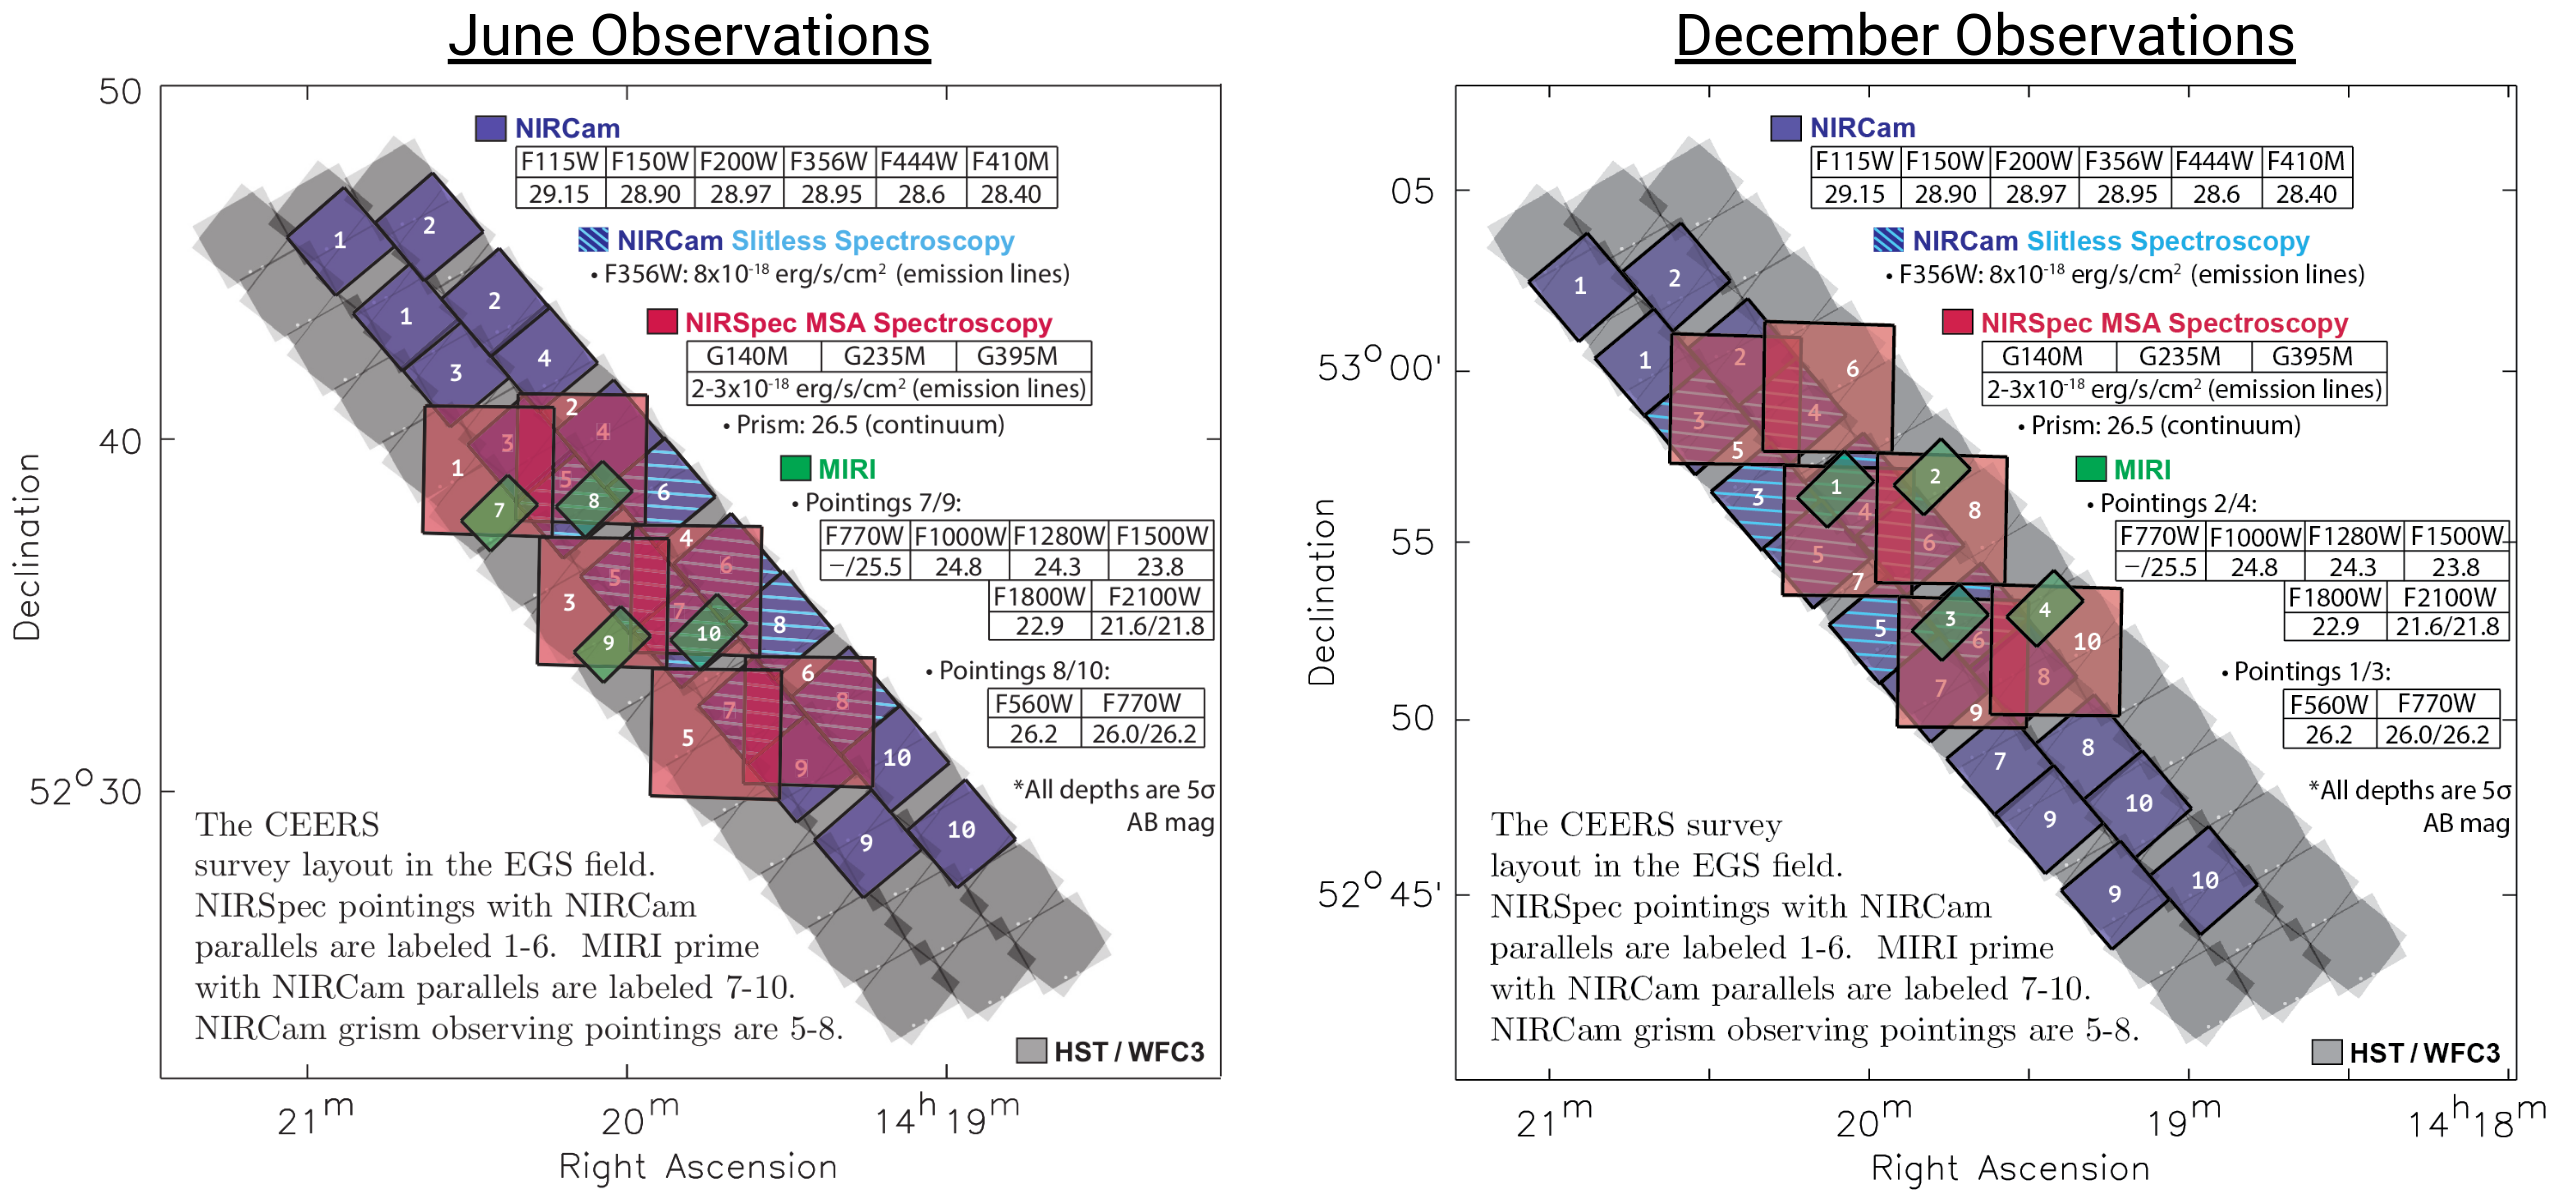
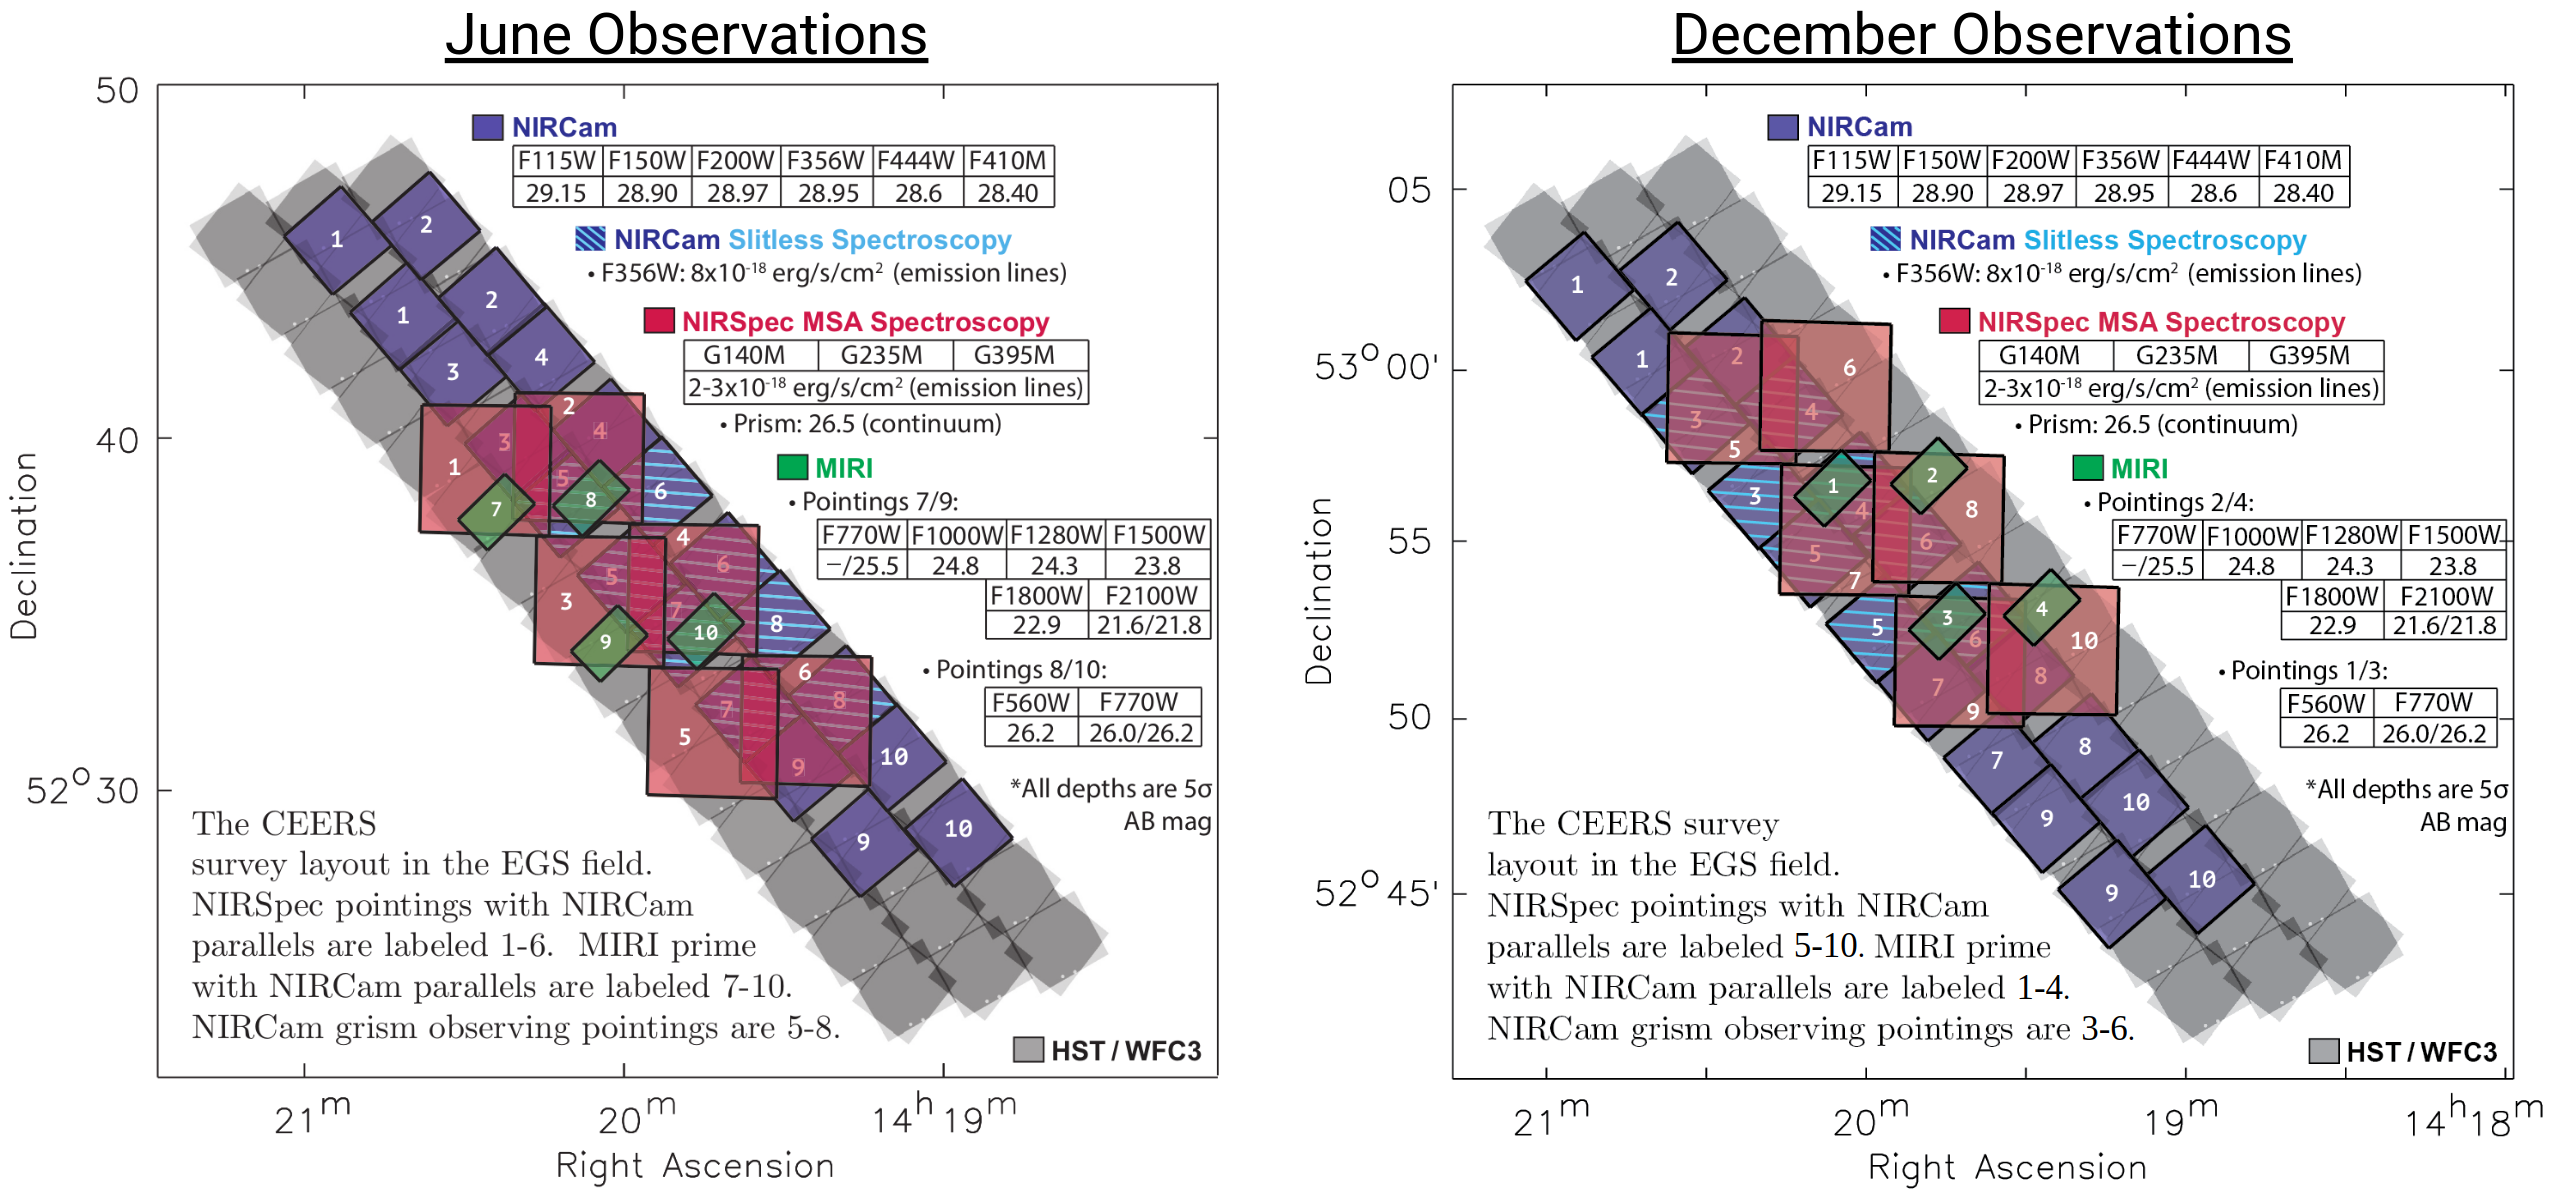
updating coordinates on June configuration

diff --git a/obs.html b/obs.html
@@ -106,12 +106,12 @@
                    <p>The CEERS observations are schedulable in June and December (with a 180&deg; flip). We show here the survey layout for both observability windows. Note that the APT file linked below corresponds to the December window, though with an Oct 31, 2021, launch date CEERS would likely be scheduled in June 2022. </p>
                     <!-- Modal observing plan -->
                     <figure>
-                      <img class="image modalimg" id="modalobs" src="images/EGS2.png" alt="" title="Survey layout and planned EGS observations" style="margin-left:auto; margin-right:auto; width:60%; margin-bottom:1em; padding-bottom:1em;">
+                      <img class="image modalimg" id="modalobs" src="images/EGS.png" alt="" title="Survey layout and planned EGS observations" style="margin-left:auto; margin-right:auto; width:60%; margin-bottom:1em; padding-bottom:1em;">
                       <figcaption style="text-align:center; padding-top:0; margin-top:-1.5em;">(Click image to enlarge.)</figcaption>
                       <div id="myModal" class="modal">
                         <div class="container">
                           <div class="close">&times;</div>
-                          <img class="modal-content" src="images/EGS2.png" id="img01">
+                          <img class="modal-content" src="images/EGS.png" id="img01">
                         </div>
                      </div>
                     </figure>
